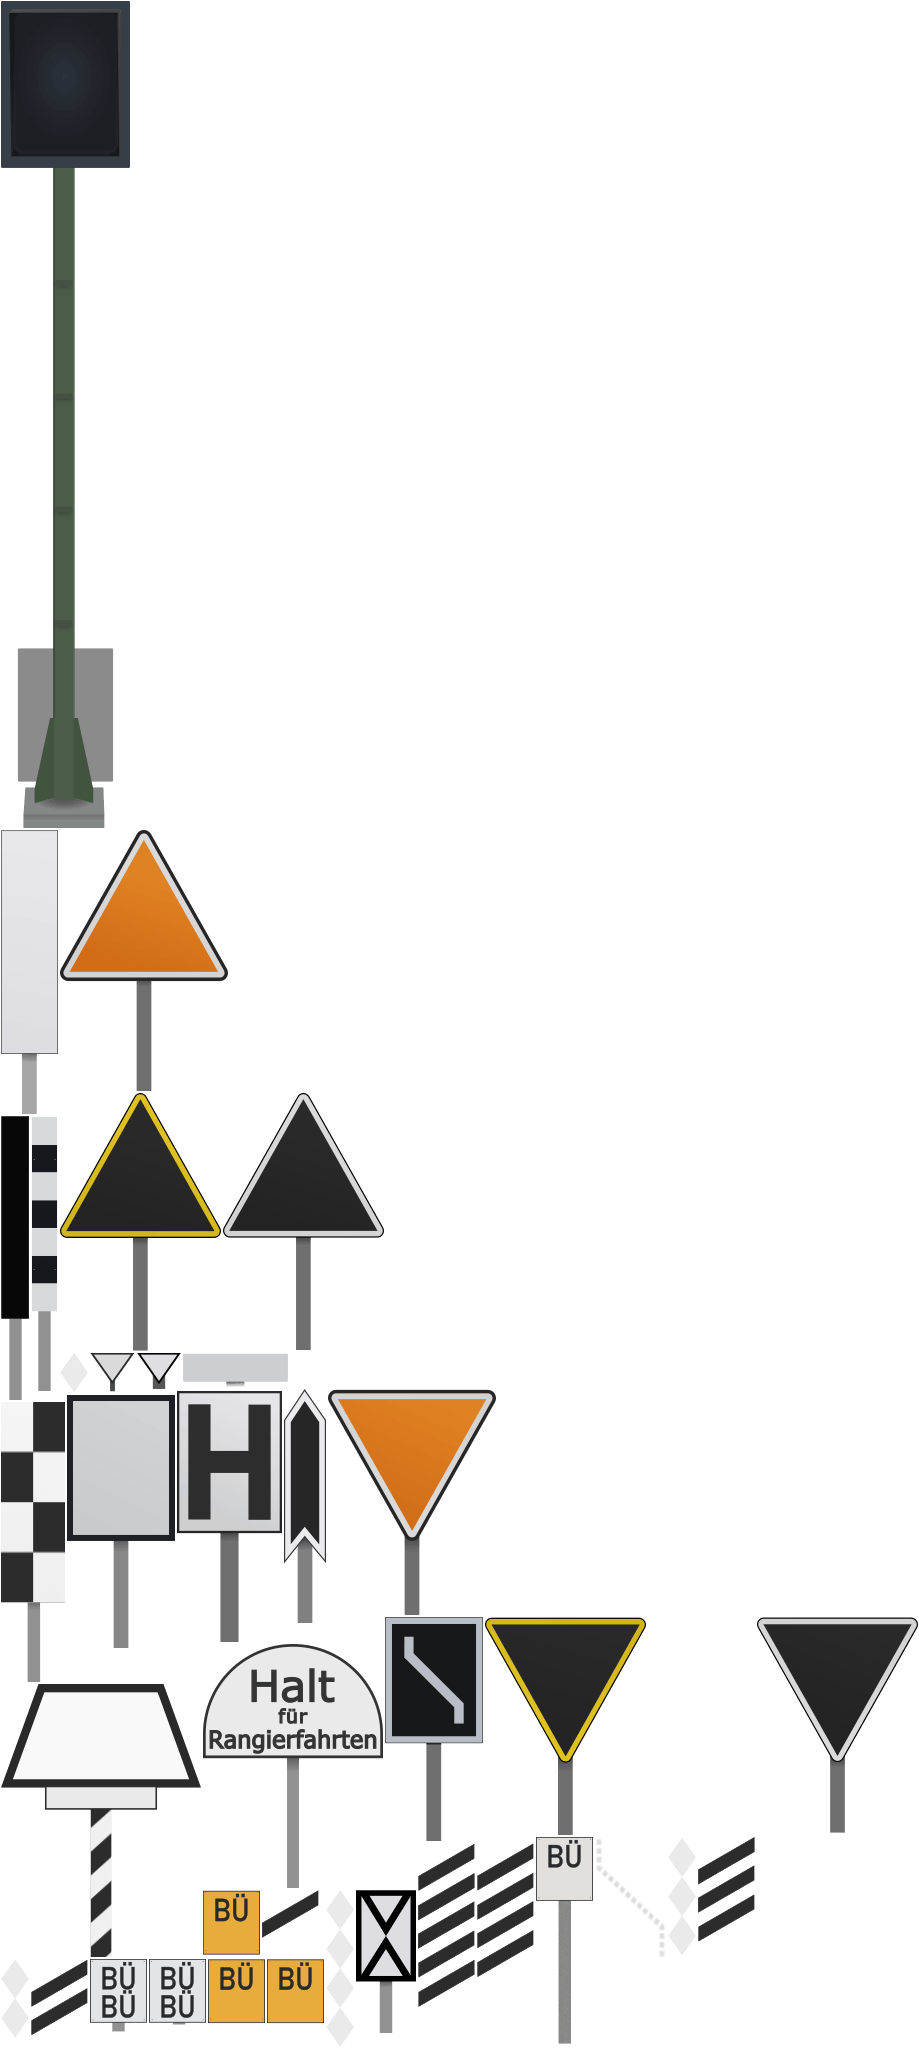
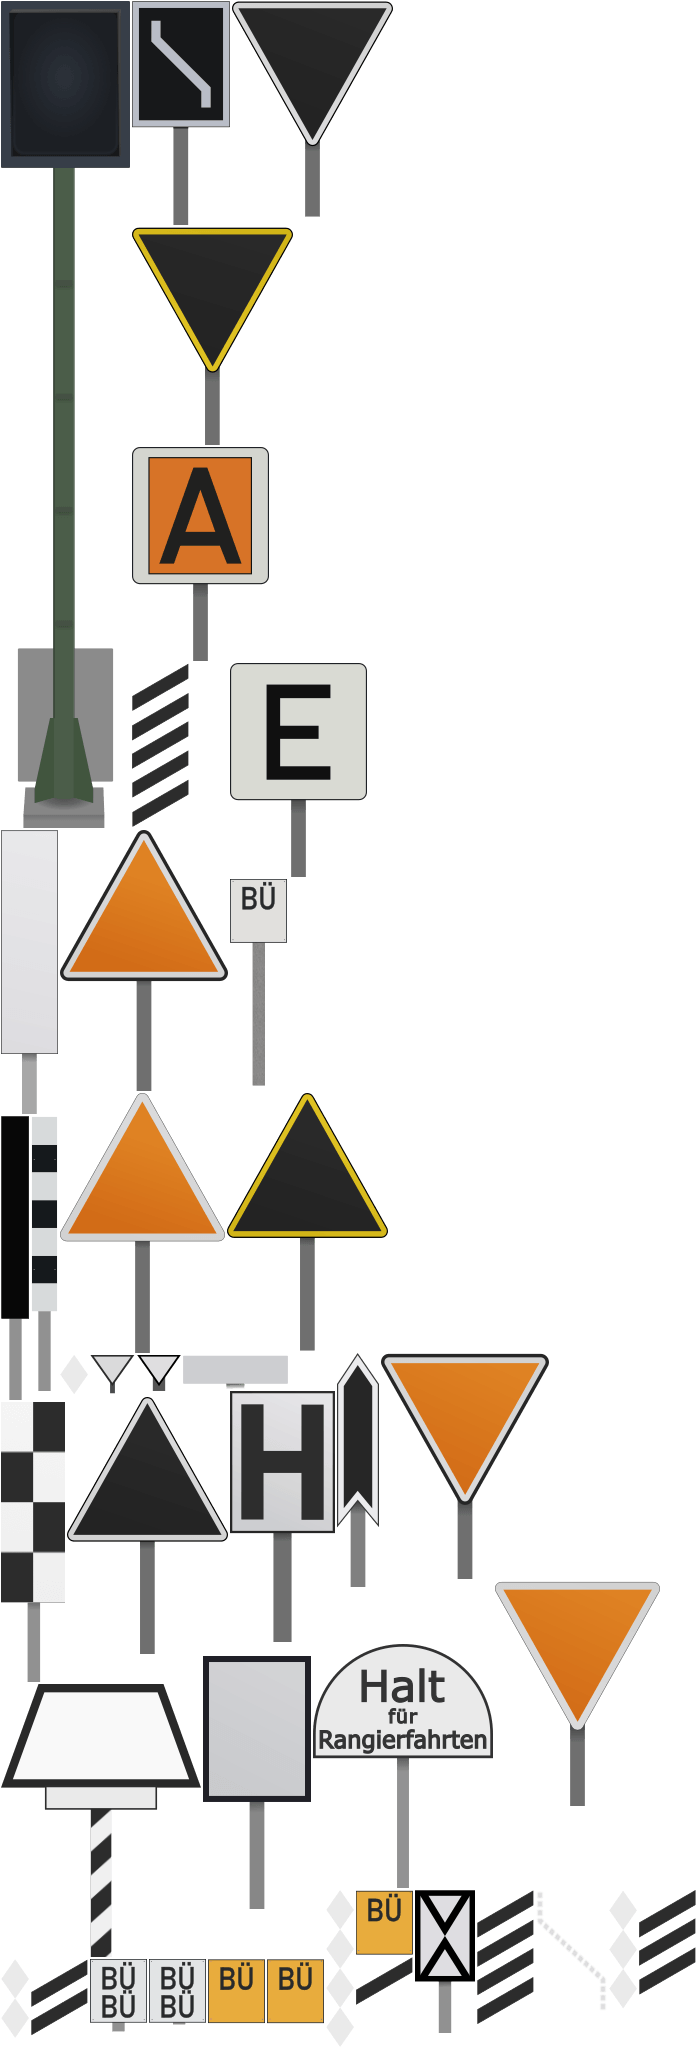
+ lf signale

Changed region(s): [[0.0, 0.0, 1.0, 1.0], [0.9039, 0.9062, 1.0, 0.9688], [0.0, 0.0, 0.0301, 0.0625]]

diff --git a/app/code/managers/UIManager.ts b/app/code/managers/UIManager.ts
@@ -197,7 +197,13 @@ export class UIManager {
          ui.createAccordionItem(
             "Lf-Signale",
             accordionId,
-            this.#createNewItemButtons(this.#app.signalTemplates.lf6, this.#app.signalTemplates.lf7) as any
+            this.#createNewItemButtons(
+               this.#app.signalTemplates.lf1,
+               this.#app.signalTemplates.lf2,
+               this.#app.signalTemplates.lf3,
+               this.#app.signalTemplates.lf6,
+               this.#app.signalTemplates.lf7
+            ) as any
          ),
          ui.createAccordionItem(
             "Ne-Signale",
@@ -206,7 +212,8 @@ export class UIManager {
                this.#app.signalTemplates.ne4,
                this.#app.signalTemplates.ne5,
                this.#app.signalTemplates.ne1,
-               this.#app.signalTemplates.ne2
+               this.#app.signalTemplates.ne2,
+               this.#app.signalTemplates.ne_3
             ) as any
          ),
          ui.createAccordionItem(
@@ -230,7 +237,12 @@ export class UIManager {
          ui.createAccordionItem(
             "Bahnübergang",
             accordionId,
-            this.#createNewItemButtons(this.#app.signalTemplates.bue) as any
+            this.#createNewItemButtons(
+               this.#app.signalTemplates.bue,
+               this.#app.signalTemplates["bü_kennzeichen"],
+               this.#app.signalTemplates["bü_2"],
+               this.#app.signalTemplates["bü_3"]
+            ) as any
          ),
       ]);
    }